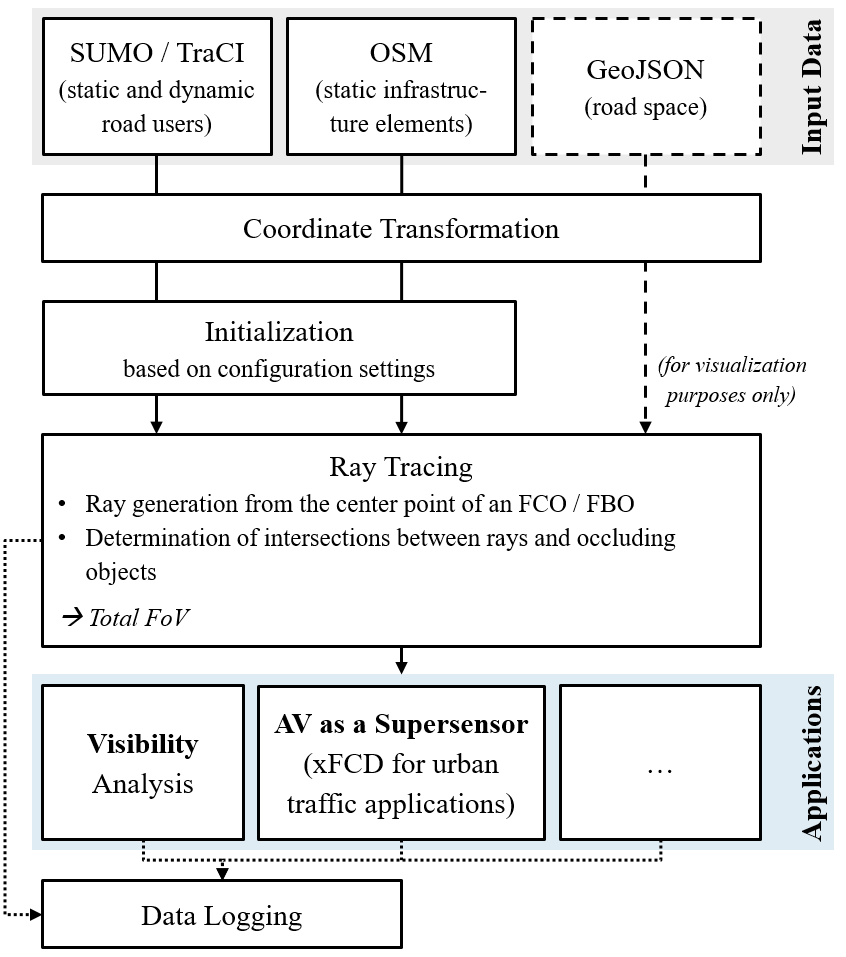
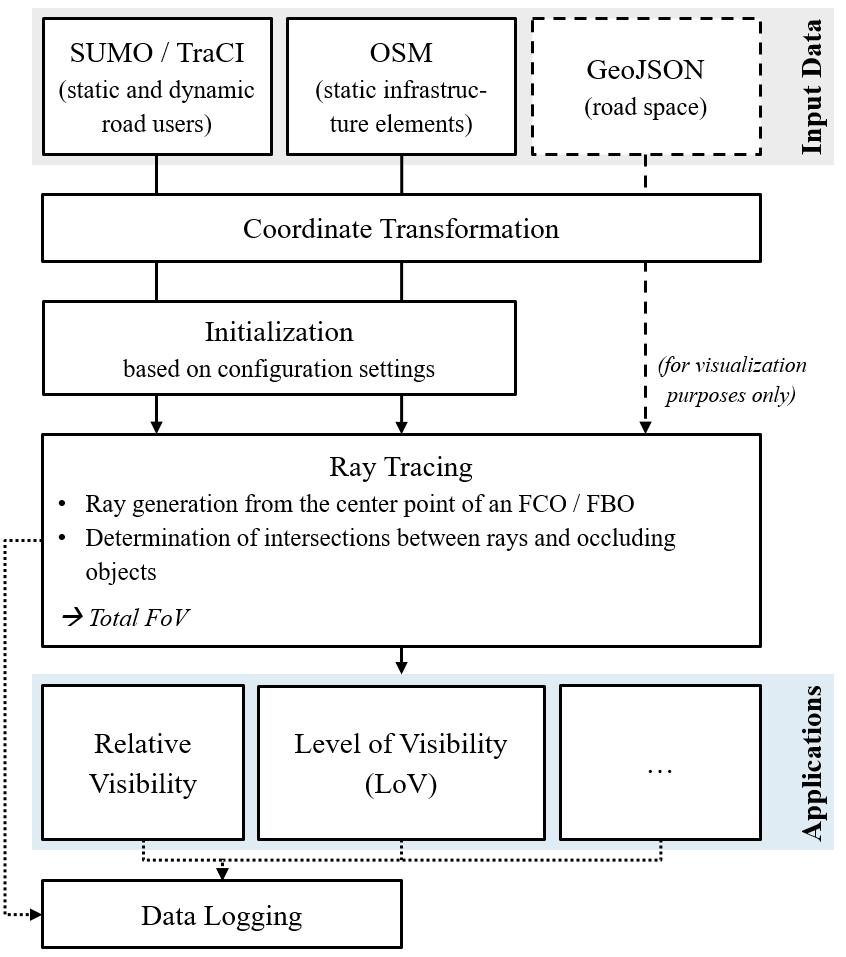
Updated RadMe file

Changed region(s): [[0.3381, 0.7273, 0.6147, 0.8485], [0.0922, 0.7576, 0.2459, 0.8485]]

diff --git a/README.md b/README.md
@@ -1,7 +1,7 @@
 # FTO-Sim
-**FTO-Sim** is an open-source simulation framework for Floating Traffic Observation (FTO). The FTO concept is adapted from the Floating Car Observer (FCO) method, that utilizes extended floating car data (xFCD) for traffic planning and traffic management purposes. Additionally, this simulation framework introduces further observer vehicle types, such as Floating Bike Observers (FBO).
+*FTO-Sim* is an open-source simulation framework for Floating Traffic Observation (FTO). The FTO concept is adapted from the Floating Car Observer (FCO) method, that utilizes extended floating car data (xFCD) for traffic planning and traffic management purposes. Additionally, this simulation framework introduces further observer vehicle types, such as Floating Bike Observers (FBO).
 
-For this, **FTO-Sim** is connected to a SUMO simulation and customized according to the user's needs. This ReadMe file serves as documentation for **FTO-Sim** and describes the single modules of the simulation framework as well as its customization and initialization.
+For this, *FTO-Sim* is connected to a SUMO simulation and customized according to the user's needs. This ReadMe file serves as documentation for *FTO-Sim* and describes the single modules of the simulation framework as well as its customization and initialization.
 
 ## Table of Contents
 1. [Citation](#citation)
@@ -11,24 +11,24 @@ For this, **FTO-Sim** is connected to a SUMO simulation and customized according
 5. [Usage](#usage)
 
 ## Citation
-When using **FTO-Sim**, please cite the following references:
+When using *FTO-Sim*, please cite the following references:
 * [Introduction of FTO-Sim](https://www.researchgate.net/publication/383272173_An_Open-Source_Framework_for_Evaluating_Cooperative_Perception_in_Urban_Areas) includes a detailed description of the general features of the simulation framework. Furthermore, a first application (visibility analysis) of the simulation framework is included to further calibrate the Level of Visibility (LoV) metric, originally introduced by [Pechinger et al.](https://www.researchgate.net/publication/372952261_THRESHOLD_ANALYSIS_OF_STATIC_AND_DYNAMIC_OCCLUSION_IN_URBAN_AREAS_A_CONNECTED_AUTOMATED_VEHICLE_PERSPECTIVE).
 
 ## Features
-The following sub-chapters elaborate on the different modules and functionalities of the simulation framework, which are summarized in the following figure.
+The following sub-chapters elaborate on the different modules and functionalities of the simulation framework, which are summarized in the figure below.
 
 ![Overview of the FTO-Sim Framework Architecture](readme_images/framework_features.png)
 
 ### Input Data
 
-FTO-Sim makes use of three inut data types:
+*FTO-Sim* makes use of three inut data types:
 * [SUMO simulation](https://eclipse.dev/sumo/): SUMO and its interface TraCI (Traffic Control Interface) are used to retrieve the location of every static and dynamic road user for each time step of the simulation. Parked vehicles are considered static road users, while vehicular traffic, as well as VRUs (pedestrians and cyclists), are considered dynamic road users.
 * [Open Streat Map (OSM)](https://www.openstreetmap.org/): Shapes and locations of static infrastructure elements, such as buildings, are retrieved from OSM. Furthermore, shapes and locations of urban greenery, such as parks and trees, are obtained from OSM.
-* [GeoJSON](https://geojson.org/) (for visualizaton purposes only): If available, FTO-Sim makes use of GeoJSON files containing the road space distribution of the simulated scene to visualize vehicular carriageways, parking lots, bicycle lanes and pedestrian areas.
+* [GeoJSON](https://geojson.org/) (for visualizaton purposes only): If available, *FTO-Sim* makes use of GeoJSON files containing the road space distribution of the simulated scene to visualize vehicular carriageways, parking lots, bicycle lanes and pedestrian areas.
 
 ### Configuration Settings
 
-FTO-Sim offers users a wide range of functionalities that can be individually configured before initializing the framework. This enables a customized use of the offered functionalities, dpending on the needs of individual users. The following configurations are available:
+*FTO-Sim* offers users a wide range of functionalities that can be individually configured before initializing the framework. This enables a customized use of the offered functionalities, dpending on the needs of individual users. The following configurations are available:
 * The **general settings** enables users to activate the live visualization of the ray tracing procedure peformed by FCOs and FBOs. When the ray tracing visualization is activated, users can further choose if the generated rays themselves or only the resulting visibility polygon of FCOs and FBOs should be visualized. Additionally, a manual forwarding option is integrated, which, when activated, requests a user's input to proceed to the calculation of the next frame / simulation step. Furthermore, users can choose to save the animation after the simulation has been performed.
 ```
 # General Settings
@@ -69,13 +69,21 @@ delay = 90          #Warm-up time in seconds (during this time in the beginning 
 # Warm-Up Settings
 
 FCO_share = 0.1         # Penetration rate of floating car observers
-FBO_share = 0           # Penetration rate of floating bike observers
-numberOfRays = 360      # Number of rays for ray tracing
+FBO_share = 0.1         # Penetration rate of floating bike observers
+numberOfRays = 360      # Number of rays generated for ray tracing
 ```
 
 ### Ray Tracing
 
-...
+Based on the provided input data and confiduration settings, *FTO-Sim* is initiated and performs the ray tracing method for every FCO and FBO.
+
+Once the **simulation loop** is initiated, *FTO-Sim* will check the vehicle type of every road user within the previously defined bounding box for each time step of the simulation. After the initially defined warm-up phase and depending on the defined FCO / FBO penetration rates, vehicles or bicycles with the vehicle type 'floating car observer' or 'floating bike observer' will be randomly generated and thus activating the ray tracing.
+
+The **ray tracing module** will generate the previously defined number of rays descending from every observer's center point up to a distance of 30 meters. The angle between the rays will be equivallently sized to generate a non-occluded field of view (FoV) in a circular form around the observer. Subsequently, the rays that intersect with static or dynamic objects are cut to obtain an observer's occluded FoV. Lastly, the endpoints of all rays are connected to create an observer's visibility polygon representing the area within an observer's total FoV.
+
+The following figure shows a visualization of the ray tracing method, both for FCOs (left) and FBOs (right). The rays emerging from the centerpoint of an observer are colored in blue when they are inobstructed and in red when they intersect with objects.
+
+![Ray Tracing Visualization](readme_images/ray_tracing.png)
 
 ### Applications
 
@@ -97,10 +105,6 @@ Installing required packages:
 ```
 pip install -r requirements.txt
 ```
-
-## Customization
-
-Introduce all customization modules of the simulation framework (similar to TRB paper)
 
 ## Usage
 
